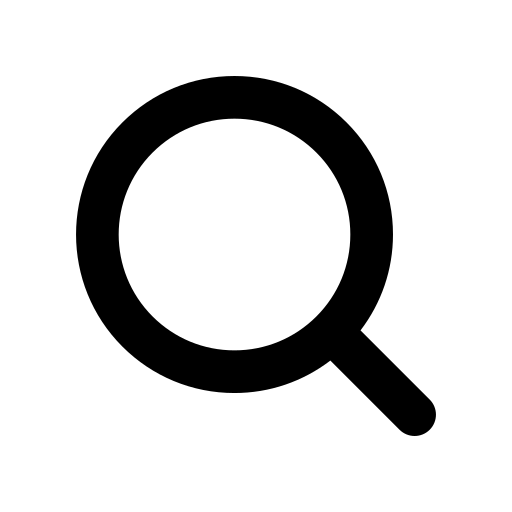
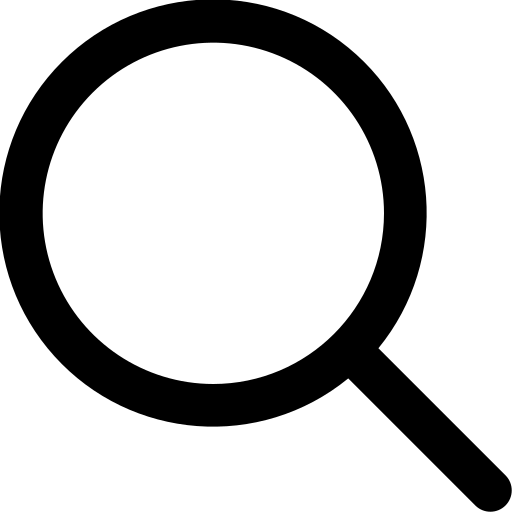
First draft of Homepage 1 and 2

diff --git a/culinary-connect/src/App.css b/culinary-connect/src/App.css
@@ -1,7 +1,9 @@
 html {
-  background-color: #fdf8d6;
+  background-color: #dee7e9;
   margin: 0px;
 }
+
+/* MENU CSS */
 
 .menu {
   color: white;
@@ -18,10 +20,19 @@ html {
   box-shadow: rgba(41, 44, 46, 0.2) 0px 10px 24px;
 }
 
+/* SEARCH BAR CSS */
+
 .searchBar {
   width: 100%;
   display: flex;
   justify-content: center;
+  margin-top: 5vh;
+  margin-bottom: 10vh;
+}
+
+.searchBarForm>button>img{
+  width: 90%;
+  filter: invert(100%);
 }
 
 .searchBarForm {
@@ -32,7 +43,7 @@ html {
 }
 
 .searchInput {
-  width: 100%;
+  width: 50vh;
   border-radius: 20px;
   border: 1px solid gainsboro;
   padding: 8px 12px;
@@ -44,10 +55,12 @@ html {
   height: 34px; 
   width: 34px; 
   border: none;
-  background-color: rebeccapurple;
+  background-color: #d62828;
   color: white;
   border-radius: 20px 20px 20px 20px;
 }
+
+/* USED IN HOMEPAGE 1 */
 
 .main {
   display: flex;
@@ -97,8 +110,11 @@ html {
   padding: 5%;
 }
 
+/* FOOTER CSS */
+
 .footer hr {
   width: 95%;
+  margin-top: 50px;
 }
 
 .footer {
@@ -106,14 +122,16 @@ html {
   flex-direction: column;
   align-items: center;
   justify-content: center;
-  height: 5vh;
+  height: fit-content;
 }
+
+/* RECIPE ITEM CSS */
 
 .recipeItem {
   display: flex;
   width: 20%;
   height: fit-content;
-  background-color: #f3e5e5;
+  background-color: #f8f8f8;
   border-radius: 20px;
   align-items: center;
   justify-content: center;
@@ -121,9 +139,7 @@ html {
   flex-direction: column;
   padding-top: 1vi;
   margin-top: 20px;
-  
-
-}
+  box-shadow: rgba(60, 64, 67, 0.3) 0px 1px 2px 0px, rgba(60, 64, 67, 0.15) 0px 1px 3px 1px;}
 
 .recipeTitle {
   align-self: start;
@@ -170,8 +186,7 @@ html {
   margin-bottom: 25px;
   width: 80%;
   overflow-x: auto;
-  
-  
+    
 }
 
 .tagSlider::-webkit-scrollbar {
@@ -179,12 +194,11 @@ html {
 }
 
 .tagItem {
-  background-color: #f3e5e5;
+  background-color: #ffc7b1;
   color: #333;
   width: auto;
   padding: 5px 10px;
   border-radius: 20px;
-  border: 1px solid black;
   padding-left: 10px;
   padding-right: 10px;
   margin-right: 10px; /* Adjust margin between tags */
@@ -192,6 +206,77 @@ html {
   opacity: 1;
   transition: opacity 0.5s ease;
 }
+
+/* SIDE MENU CSS */
+
+.sideMenu {
+  width: 15vi;
+  height: 100vh;
+  background-color: #f8f8f8;
+  border-radius: 0px 25px 25px 0px;
+  box-shadow: rgba(50, 50, 93, 0.25) 0px 6px 12px -2px, rgba(0, 0, 0, 0.3) 0px 3px 7px -3px;
+  position: fixed;
+  top: 0;
+  left: 0;
+  display: flex;
+  flex-direction: column;
+  justify-content: center;
+  align-items: center;
+  gap: 5vh;
+
+}
+
+.sideMenuItem {
+  display: flex;
+  height: 1lh;
+  flex-direction: row;
+  align-items: center;
+  margin: 5px 0;
+  
+}
+
+.sideMenuItem img {
+  height: 1lh;
+  padding-right: 5px;
+}
+
+.sideMenuItem p {
+  font-size: 1.5em;
+  font-weight: 600;
+}
+
+.logoText {
+  font-size: 2em;
+  font-weight: 700;
+}
+.appBodyHP2 {
+  display: flex;
+  flex-direction: column;
+  height: auto;
+}
+
+.trendingRecipes {
+  display: flex;
+  flex-direction: row;
+  overflow-x: auto;
+  gap: 30px;
+  padding: 15px;
+}
+
+.trendingRecipes::-webkit-scrollbar {
+  display: none; /* Hide the scrollbar */
+}
+
+.next2SideMenu {
+  margin-left: 17vi;
+  margin-bottom: 30px;
+}
+
+.HP2Title {
+  color: #ce2121;
+  font-size: 50px;
+}
+
 
 
 /* .App {

diff --git a/culinary-connect/src/components/SideMenu.js b/culinary-connect/src/components/SideMenu.js
@@ -1,0 +1,38 @@
+import '../App.css';
+import home from "../assets/home.png";
+import explore from "../assets/explore.png";
+import heart from "../assets/heart.png";
+import user from "../assets/user.png";
+import settings from "../assets/settings.png";
+
+
+function SideMenu() {
+    return (
+        <div className='sideMenu'>
+            {/* <p className='logoText'>Culinary Connect</p> */}
+            <div className='sideMenuItem'>
+                <img src={home} alt=''></img>
+                <p>Home</p>
+            </div>
+            <div className='sideMenuItem'>
+                <img src={explore} alt=''></img>
+                <p>Explore</p>
+            </div>
+            <div className='sideMenuItem'>
+                <img src={heart} alt=''></img>
+                <p>Favorite</p>
+            </div>
+            <div className='sideMenuItem'>
+                <img src={user} alt=''></img>
+                <p>Profile</p>
+            </div>
+            <div className='sideMenuItem'>
+                <img src={settings} alt=''></img>
+                <p>Settings</p>
+            </div>
+
+        </div>
+    );
+}
+
+export default SideMenu;

diff --git a/culinary-connect/src/pages/Homepage2.js b/culinary-connect/src/pages/Homepage2.js
@@ -1,0 +1,37 @@
+import SideMenu from "../components/SideMenu";
+import Search from "../components/Search";
+import RecipeItems from "../components/RecipeItem";
+import Footer from "../components/Footer";
+
+function Homepage2() {
+  return (
+    <div className="appBodyHP2">
+      <SideMenu></SideMenu>
+      <div className="next2SideMenu">
+        <Search></Search>
+        <h1 className="HP2Title">Trending Recipes</h1>
+        <div className="trendingRecipes">
+          <RecipeItems></RecipeItems>
+          <RecipeItems></RecipeItems>
+          <RecipeItems></RecipeItems>
+          <RecipeItems></RecipeItems>
+          <RecipeItems></RecipeItems>
+          <RecipeItems></RecipeItems>
+
+        </div>
+        <h1 className="HP2Title">Trending Recipes</h1>
+        <div className="trendingRecipes">
+          <RecipeItems></RecipeItems>
+          <RecipeItems></RecipeItems>
+          <RecipeItems></RecipeItems>
+          <RecipeItems></RecipeItems>
+          <RecipeItems></RecipeItems>
+          <RecipeItems></RecipeItems>
+
+        </div>
+        <Footer></Footer>
+      </div>
+    </div>
+  );
+}
+export default Homepage2;

diff --git a/culinary-connect/src/App.js b/culinary-connect/src/App.js
@@ -1,24 +1,10 @@
-import Menu from "./components/Menu";
-import pizzaPic from "./assets/pizza-ilustration.png";
-// import Footer from "./components/Footer";
-import RecipeItem from "./components/RecipeItem";
+import Homepage1 from "./pages/Homepage1";
+import Homepage2 from "./pages/Homepage2";
 
 function App() {
   return (
-    <div className="appBody">
-      {/* <Menu />
-      <div className="main">
-        <div className="mainText">
-          <h1>CulinaryConnect</h1>
-          <p>Discover endless culinary inspiration with our collection of delicous recipes from all areound the globe</p>
-          <button>Join us!</button>
-        </div>
-        
-        <img src={pizzaPic} className="pizzaIlustration" alt="Pizza Ilustration"></img>
-      </div> */}
-      {/* <Footer /> */}
-      <RecipeItem></RecipeItem>
-    </div>
+    // <Homepage1></Homepage1>
+    <Homepage2></Homepage2>
   );
 }
 export default App;

diff --git a/culinary-connect/src/components/Search.js b/culinary-connect/src/components/Search.js
@@ -1,11 +1,12 @@
 import '../App.css';
+import search from "../assets/search.png";
 
 function Search() {
     return (
         <div className='searchBar'>
             <form className='searchBarForm'>
                 <input className='searchInput' type="text" placeholder="Search..." name="search"></input>
-                <button type='submit'><img src='../assets/search.png' alt='Search button icon'></img></button>
+                <button type='submit'><img src={search} alt='Search button icon'></img></button>
             </form>
         </div>
     );

diff --git a/culinary-connect/src/components/Menu.js b/culinary-connect/src/components/Menu.js
@@ -5,8 +5,8 @@ function Menu() {
     return (
         <div className='menu'>
             <h2 className='menuItems'>Home</h2>
-            <h2 className='menuItems'>Share</h2>
-            <h2 className='menuItems'>Look</h2>
+            <h2 className='menuItems'>About</h2>
+            <h2 className='menuItems'>Explore</h2>
         </div>
     
     );

diff --git a/culinary-connect/src/components/RecipeItem.js b/culinary-connect/src/components/RecipeItem.js
@@ -1,4 +1,4 @@
-import '../App.css'
+import '../App.css';
 import pancakePlaceholder from "../assets/pancakePlaceholder.jpg";
 
 function RecipeItem() {
